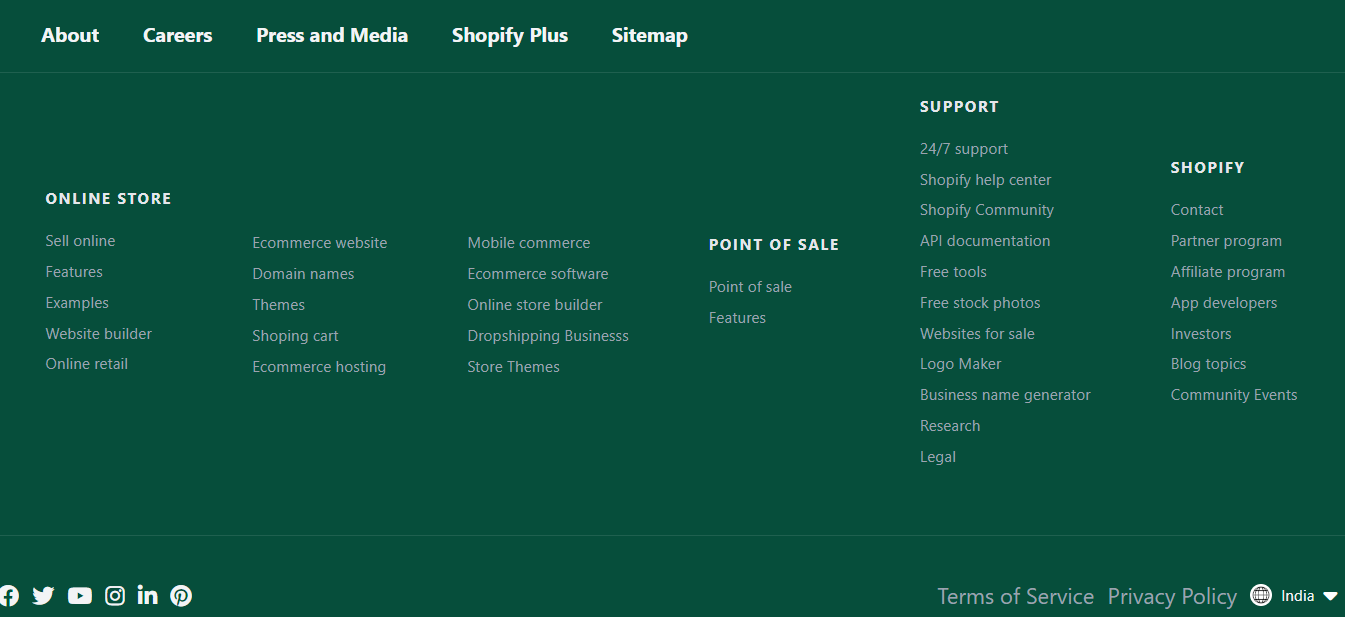
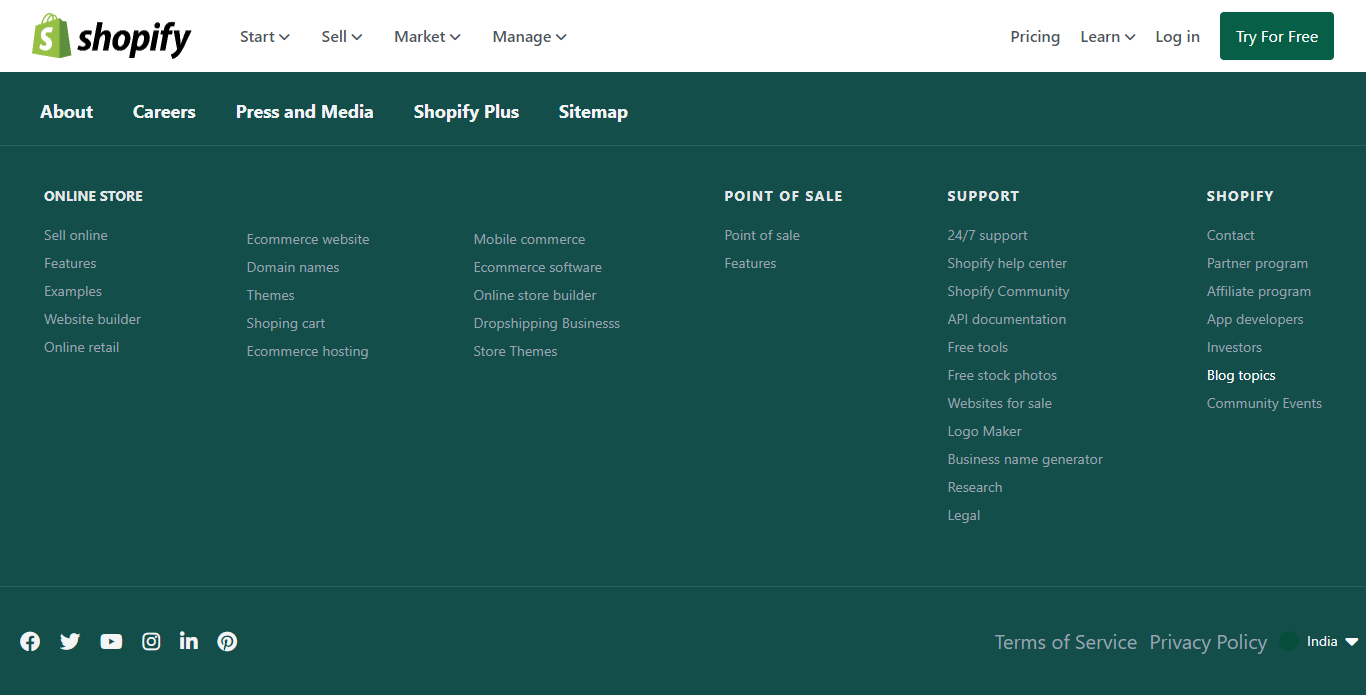
Lohin Page added

diff --git a/login.html b/login.html
@@ -1,0 +1,48 @@
+<!DOCTYPE html>
+<html lang="en">
+<head>
+    <meta charset="UTF-8">
+    <meta http-equiv="X-UA-Compatible" content="IE=edge">
+    <meta name="viewport" content="width=device-width, initial-scale=1.0">
+    <title>Login</title>
+    <script src="https://cdn.tailwindcss.com"></script>
+</head>
+<body class="flex content-center justify-center ">
+    
+<div class="flex flex-col max-w-md p-6 rounded-md sm:p-10 dark:bg-gray-900 dark:text-gray-100">
+	<div class="mb-8 text-center">
+		<h1 class="my-3 text-4xl font-bold">Sign in</h1>
+		<p class="text-sm dark:text-gray-400">Sign in to access your account</p>
+	</div>
+	<form novalidate="" action="" class="space-y-12 ng-untouched ng-pristine ng-valid">
+		<div class="space-y-4">
+			<div>
+				<label for="email" class="block mb-2 text-sm">Email address</label>
+				<input type="email" name="email" id="email" placeholder="leroy@jenkins.com" class="w-full px-3 py-2 border rounded-md dark:border-gray-700 dark:bg-gray-900 dark:text-gray-100">
+			</div>
+			<div>
+				<div class="flex justify-between mb-2">
+					<label for="password" class="text-sm">Password</label>
+					<a rel="noopener noreferrer" href="#" class="text-xs hover:underline dark:text-gray-400">Forgot password?</a>
+				</div>
+				<input type="password" name="password" id="password" placeholder="*****" class="w-full px-3 py-2 border rounded-md dark:border-gray-700 dark:bg-gray-900 dark:text-gray-100">
+			</div>
+		</div>
+		<div class="space-y-2">
+			<div>
+				<button onclick="signIn()" type="button" class="w-full px-8 py-3 font-semibold rounded-md dark:bg-violet-400 dark:text-gray-900">Sign in</button>
+			</div>
+			<p class="px-6 text-sm text-center dark:text-gray-400">Don't have an account yet?
+				<a rel="noopener noreferrer" href="#" class="hover:underline dark:text-violet-400">Sign up</a>.
+			</p>
+		</div>
+	</form>
+</div>
+
+    <script>
+        function signIn() {
+            console.log("enterEmailFirst");
+        }
+    </script>
+</body>
+</html>

diff --git a/index.html b/index.html
@@ -51,8 +51,7 @@
             <a class="mr-5 font-semibold hover:cursor-pointer hover:text-black ">Learn <span class="font-semibold text-sm items-end"><i class="fa-solid fa-angle-down"></i></span></a>
             <a class="mr-5 font-semibold hover:cursor-pointer hover:text-black ">Log in</a>
           </nav>
-          <button class="inline-flex items-center mr-8 bg-emerald-800 border-0 py-3 px-4 focus:outline-none hover:bg-emerald-900 rounded text-white text-base mt-4 md:mt-0">Try For Free            
-          </button>
+          <button onclick = "trymeOnclick()" class="inline-flex items-center mr-8 bg-emerald-800 border-0 py-3 px-4 focus:outline-none hover:bg-emerald-900 rounded text-white text-base mt-4 md:mt-0">Try For Free</button>
         </div>
     </header>
 
@@ -528,5 +527,12 @@
       </div>
   </footer>
 
+  <script>
+    function trymeOnclick() {
+      console.log("trymeOnclick is click");
+      alert("Hi Jayanta");
+      window.location.href='./login.html';
+    }
+  </script>
 </body>
 </html>

diff --git a/README.MD b/README.MD
@@ -7,12 +7,12 @@
     - Tailblocks
     - Mamba UI
 It Was a Great Experience Completing This Project After Continuous 
-Frustrating Hardwork Completed in 24hrs.
+Frustrating Hardwork Completed in 18hrs.
 
 ## Shopify Clone Screenshots
-![image](./Shopify%20SS1.png)
-![image](./Shopify%20SS2.png)
-![image](./Shopify%20SS3.png)
-![image](./Shopify%20SS4.png)
-![image](./Shopify%20SS5.png)
-![image](./Shopify%20SS6.png)
+![image](./Screenshot/Shopify%20SS1.png)
+![image](./Screenshot/Shopify%20SS2.png)
+![image](./Screenshot/Shopify%20SS3.png)
+![image](./Screenshot/Shopify%20SS4.png)
+![image](./Screenshot/Shopify%20SS5.png)
+![image](./Screenshot/Shopify%20SS6.png)
